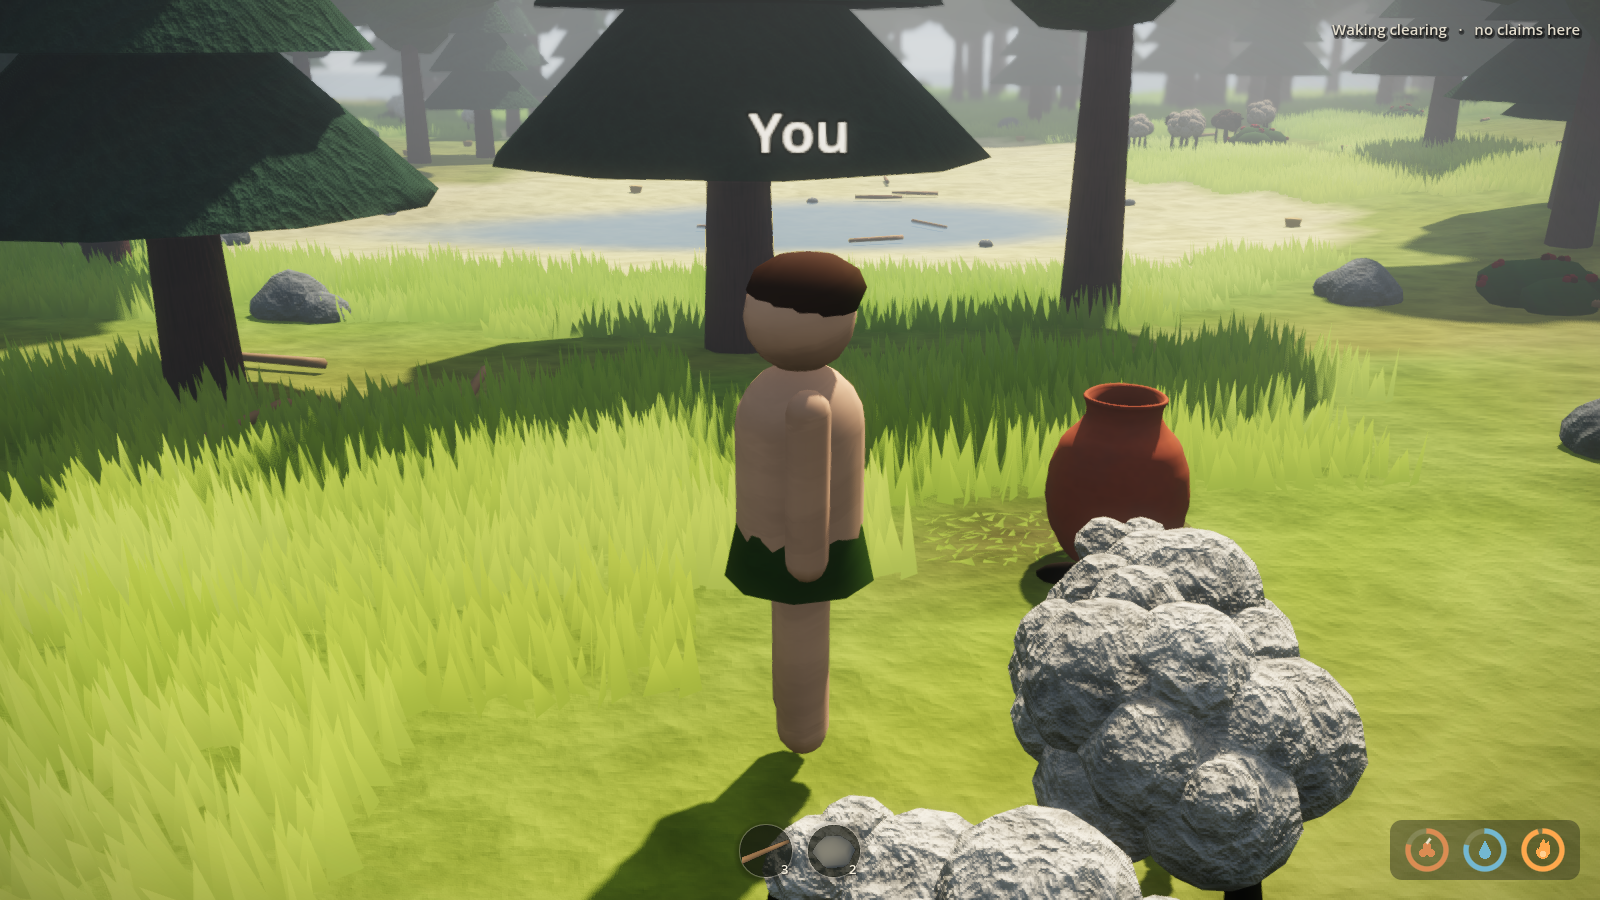
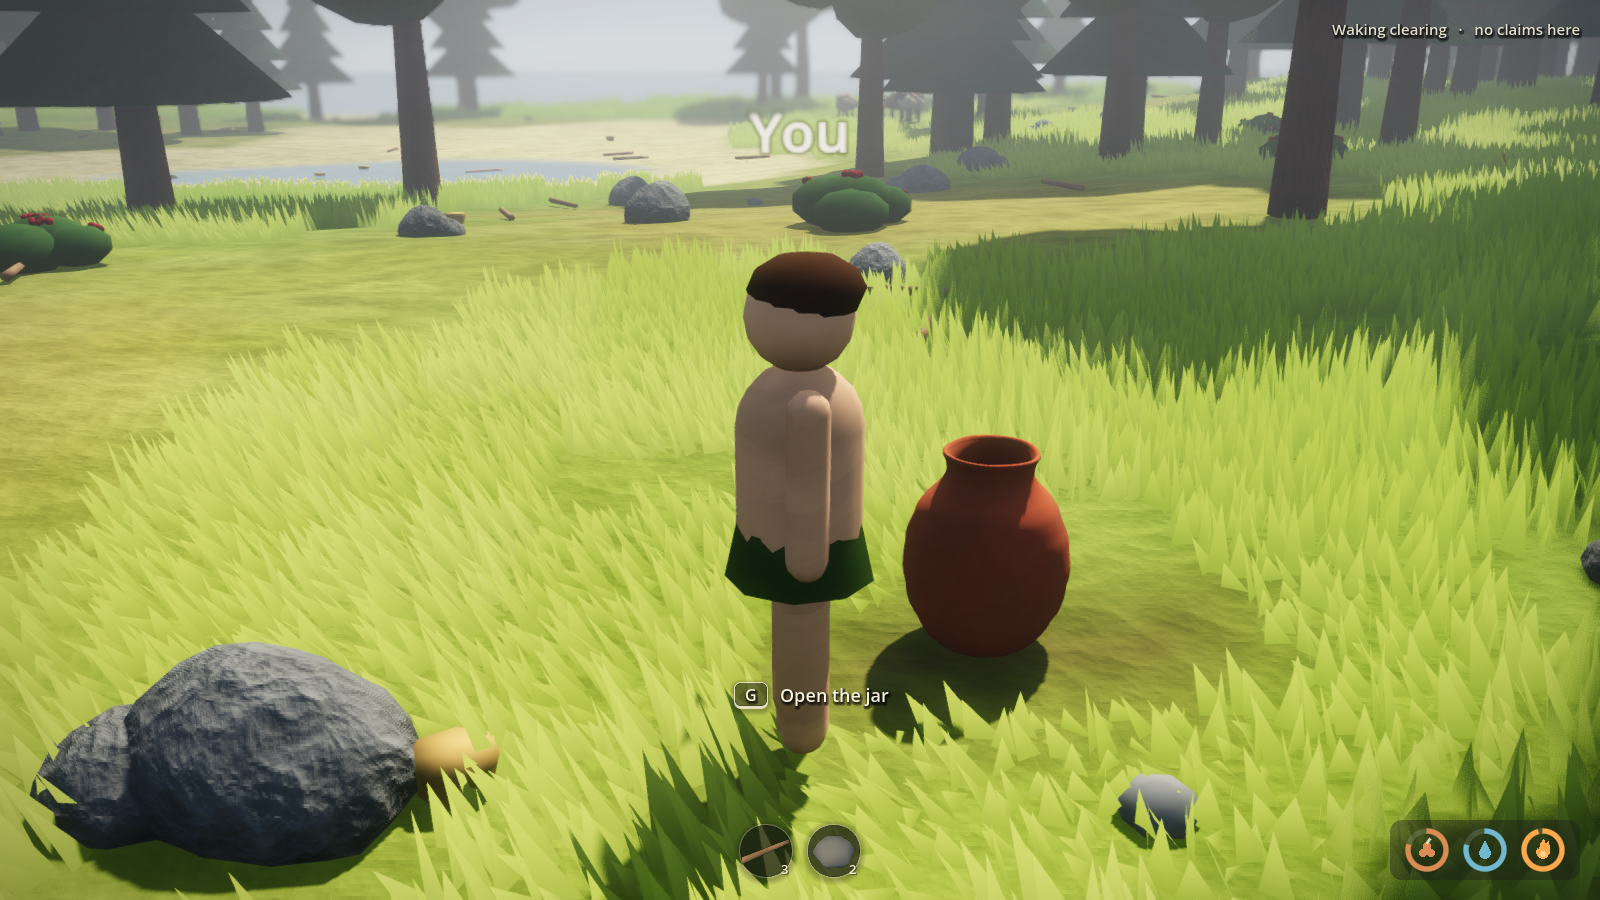
render-1: ceramics-7 script (ClayCheck bot as the camera identity)
Claude-Session: https://claude.ai/code/session_013qe8zPzzBHx9rFPEYoKMr5

diff --git a/tickets/render-1.md b/tickets/render-1.md
@@ -57,6 +57,7 @@ Per D-059 the Render lane makes every screenshot and clip Justin sees. Done mean
 - 2026-10-16 20:30: ui-12 sent (f92bff3; b118ee0 is wiring-only), 968f6a7. Jar rerun 2: jar hidden behind the player, no prompt (puppet heading doesn't turn the client's own figure); jar3 queued with side camera and a W tap.
 - 2026-10-16 20:40: PR #103 merged (tools/render on main). render-1 done; the lane continues serving render requests from this branch (images in renders/, tools updates via small follow-up PRs).
 - 2026-10-16 20:45: render request claims-8 ff0ae8a (Claims): B's view of the "wants to trade" cue over A; scene claims-8-cue.txt queued. bugfix-18b (a): with 10 sticks carried the prompt reads Feed the fire even with a full fire and a dry pot (setup verified by SQL); told Bug fixes; no-sticks variant bugfix-18c queued.
+- 2026-10-16 20:55: bugfix-18 moved to 6f697c9 (real bug fixed; setups a/c/b, scene bugfix-18-abc.txt). New: ceramics-7 cooking pot 1da6609 via the lane's ClayCheck --pot bot sharing the camera's token (scenes/ceramics-7.sh, day + dusk).
 
 ## Open questions / blockers
 - (none)
